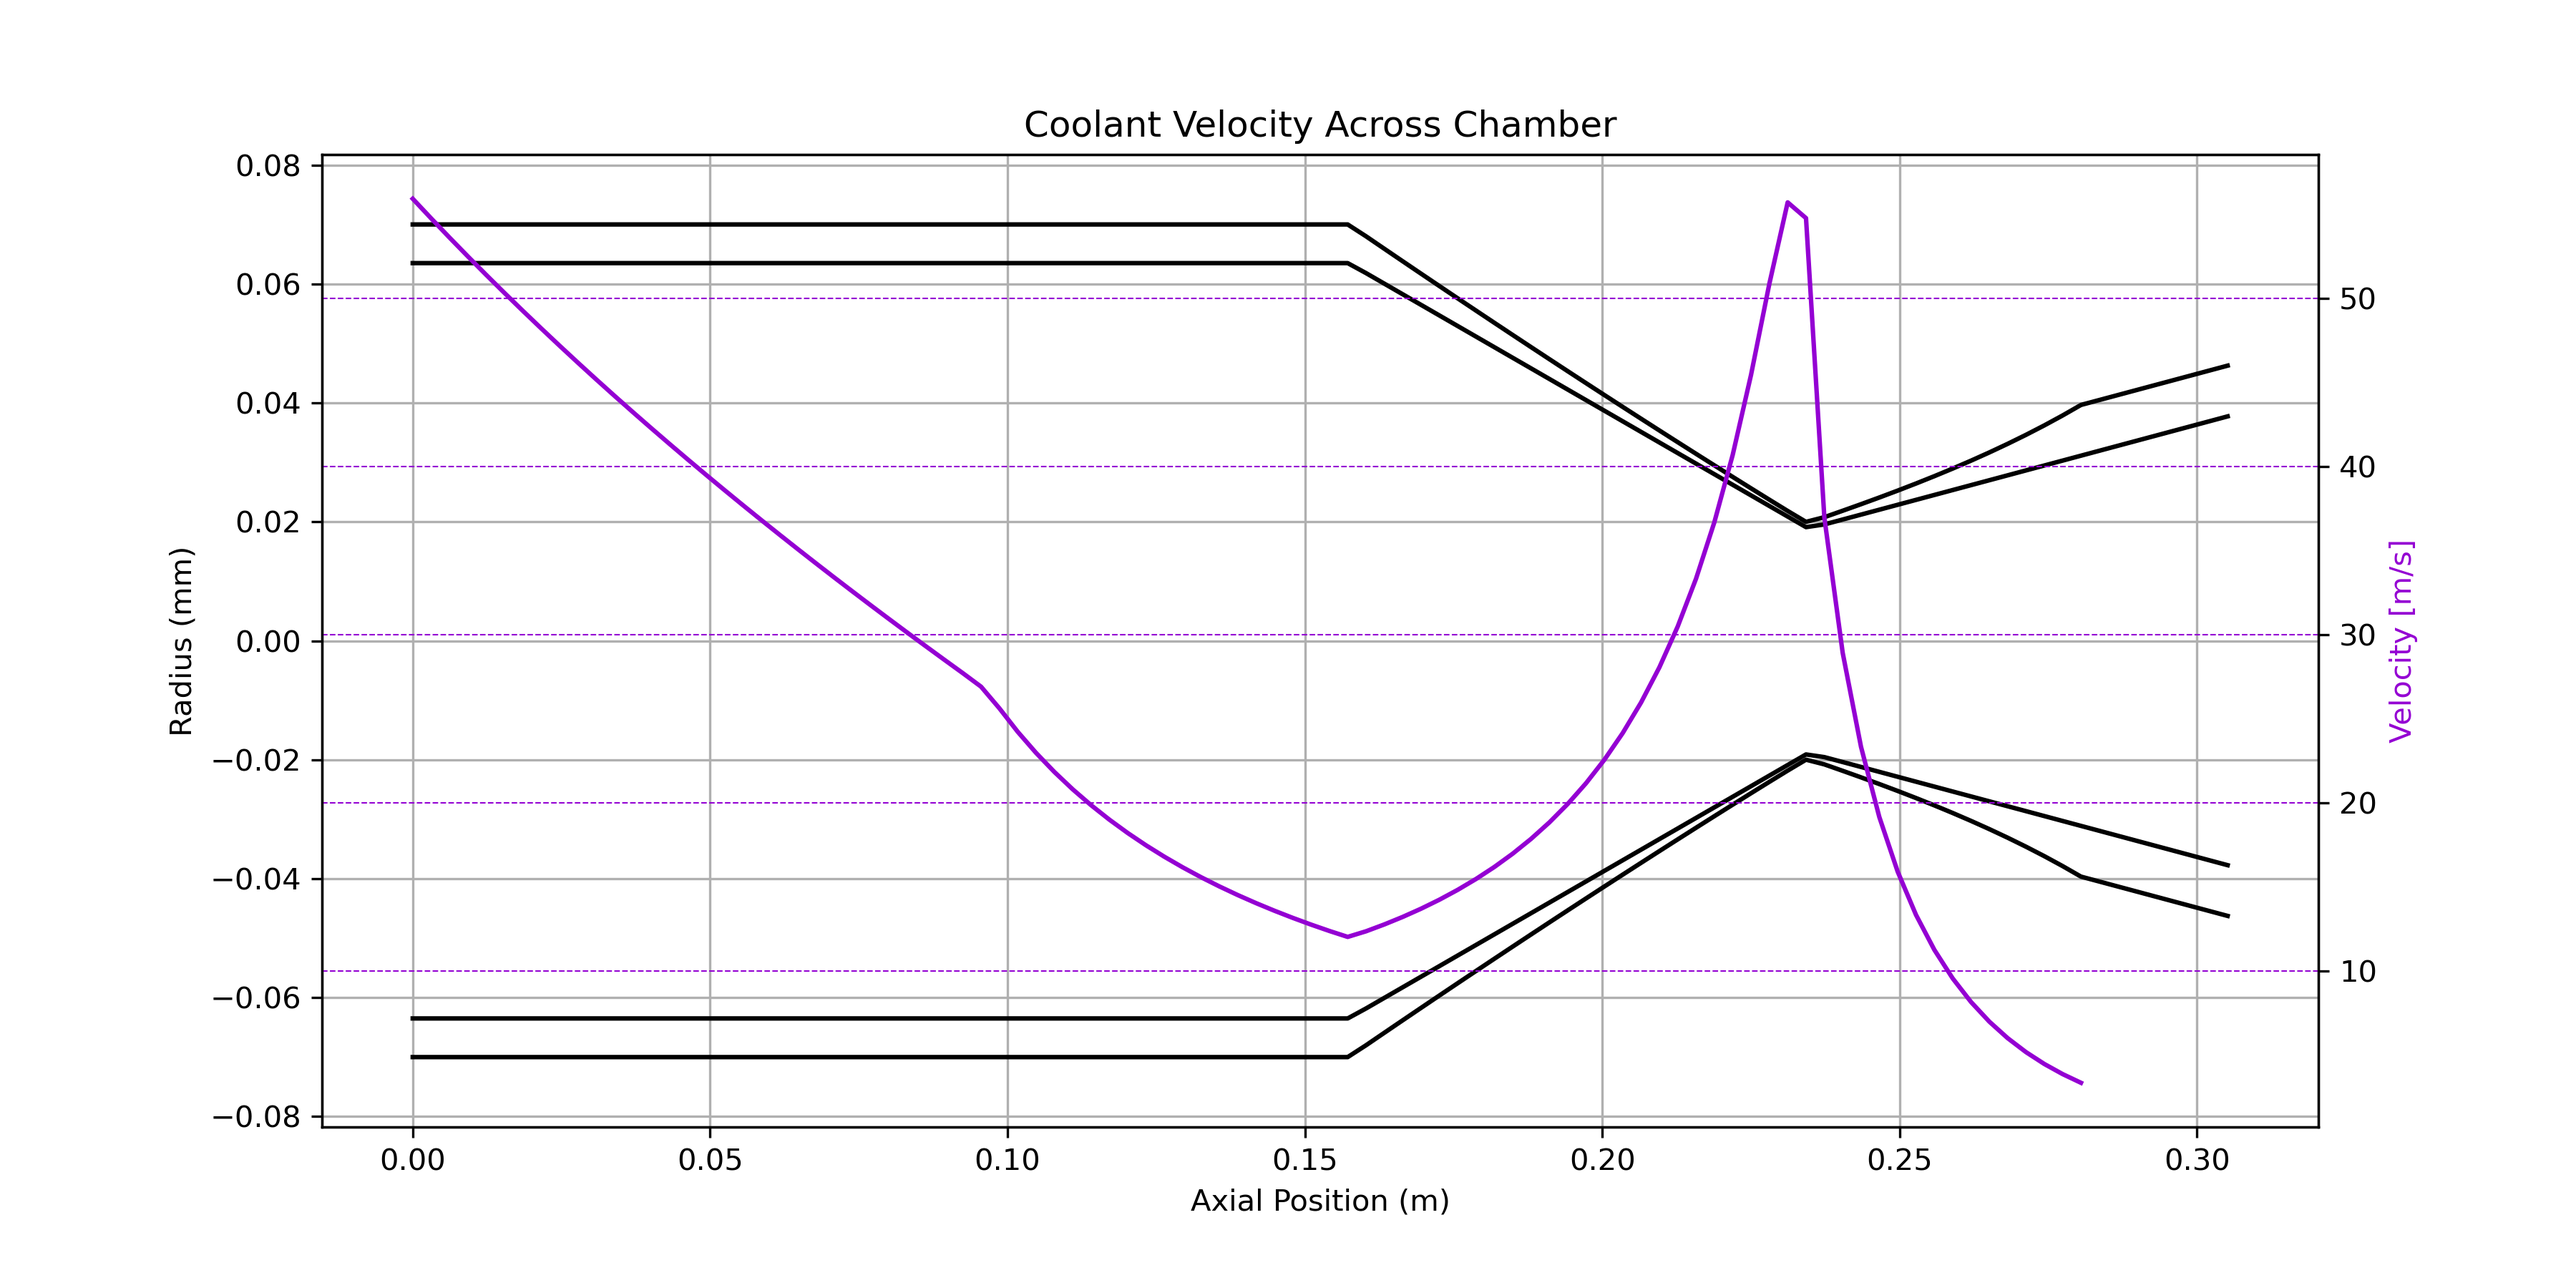
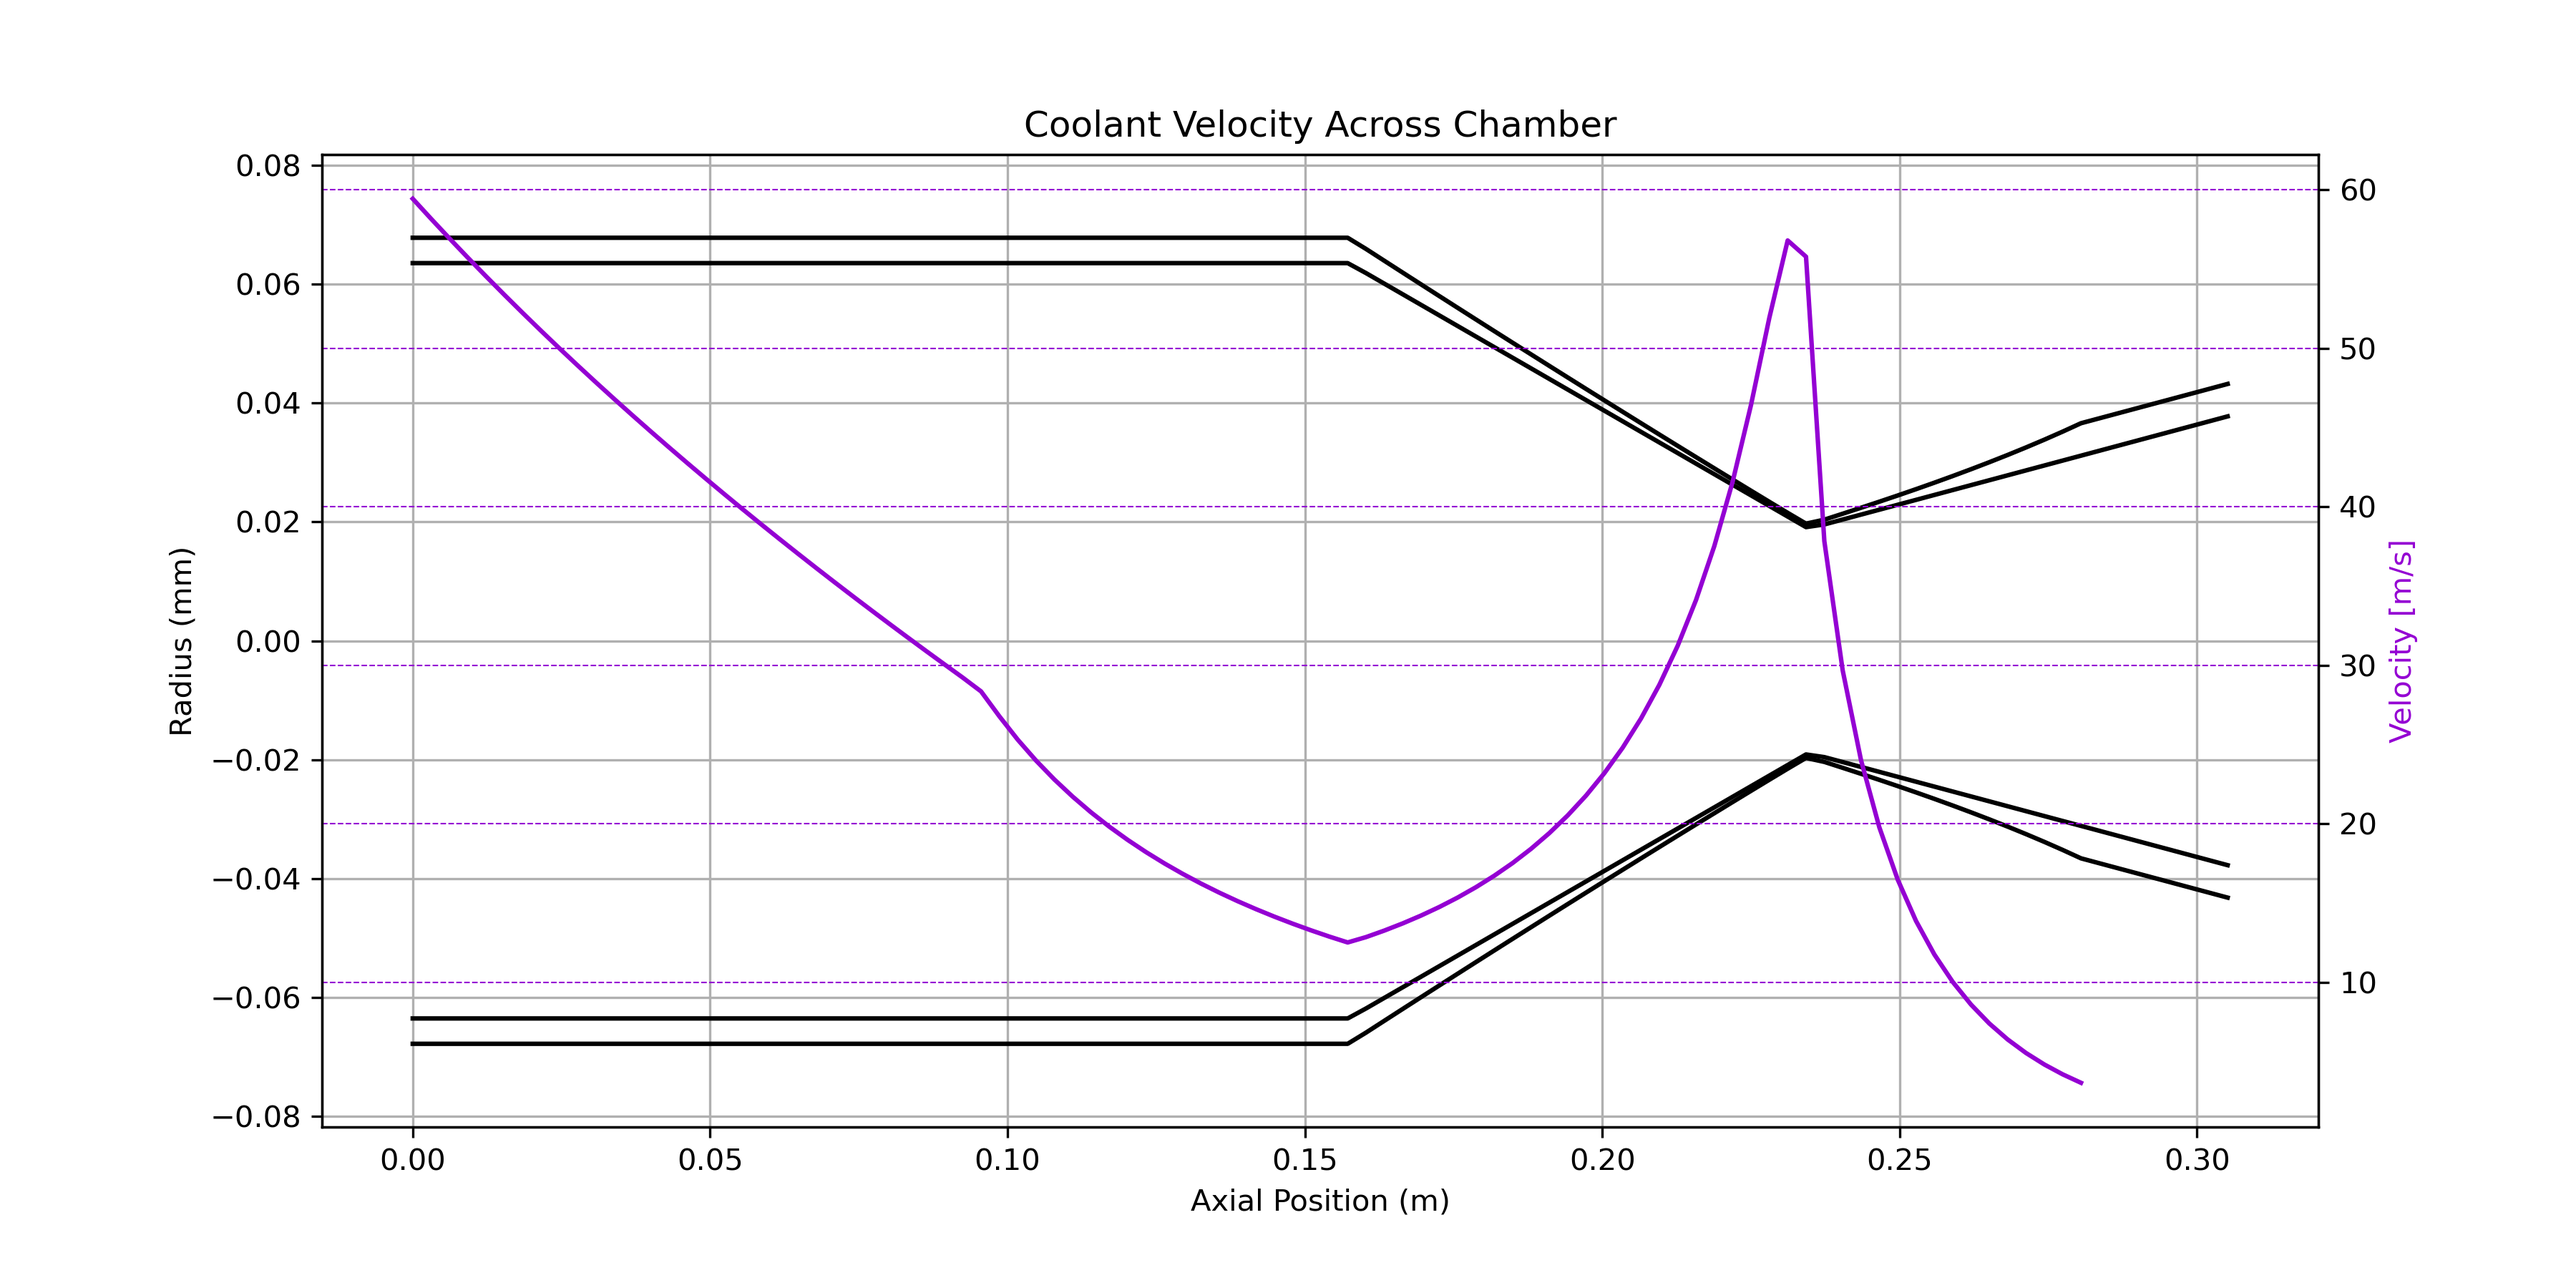
Work on Script Version

diff --git a/TheEngine/Regen Solver/solverscript.py b/TheEngine/Regen Solver/solverscript.py
@@ -6,11 +6,11 @@ import sys
 ''' Define Parameters '''
 def_P0 = 2.758e+6 # [Pa] - first chamber (stagnation) pressure guess 
 def_Ti = 300      # [K] - first chamber inlet temperature guess
-def_P_ci = 5.5e+6 # [Pa] - coolant inlet pressure
+def_P_ci = 4.5e+6 # [Pa] - coolant inlet pressure
 def_X_ci = 0.4 # [-] - coolant inlet quality
 def_x_off = 0.024 # [m] - cooling jacket offset
-def_T_hw = 1200 # [K] - target hot wall temperature (should be below 1373 K)
-def_T_cw = 600 # [K] - target cold wall temperature (should be below 623 K)
+def_T_hw = 1000 # [K] - target hot wall temperature (should be below 1373 K)
+def_T_cw = 530 # [K] - target cold wall temperature (should be below 623 K)
 def_N_channels = 16 # [-] - number of cooling channels
 def_t_rib = 0.005 # [m] thickness of ribs 
 def_k_wall = 30 # [W/mK] - thermal conductivity of wall
@@ -56,7 +56,34 @@ sol.plotCoolantDensity()
 '''
 
 '''Run Special Plots '''
-#iterate over coolant quality from 0 to 0.5 in steps of 0.1
+N_range = 6
+def_ID = "Geometry with varying t_rib:"
+def_t_rib = 0.001
+for i in range(N_range):
+    def_t_rib = 0.001 + 0.001*i
+    sol.defineParameters(def_P0, 
+                         def_Ti, 
+                         def_P_ci, 
+                         def_X_ci, 
+                         def_x_off, 
+                         def_T_hw, 
+                         def_T_cw, 
+                         def_N_channels, 
+                         def_t_rib, 
+                         def_k_wall, 
+                         def_N)
+    T_coolant_f, P_coolant_f = sol.run()
+    #print("Coolant Final Temperature after Cycle ", i+2, ": ", T_coolant_f, " K", "\nCoolant Final Pressure after Cycle ", i+2, ": ", P_coolant_f, " Pa")
+    sol.plotCoolingJacketAxs(axs = sol.plotSubplot6(), ID = def_ID + " {}".format(def_t_rib))
+
+#sol.showSubplot("Velocity with varying X_ci")
+sol.saveSubplot("jacketvst_rib.png")
+sol.resetSubplot()
+
+
+
+
+sys.exit()
 P_drop = list()
 X_ci = list()
 
@@ -98,7 +125,7 @@ plt.legend()
 plt.savefig("solverplots/analysis/pressuredropvsX_ci.png")
 
 
-sys.exit()
+
 #iterate over coolant quality from 0 to 0.5 in steps of 0.1
 
 N_range = 10

diff --git a/TheEngine/Regen Solver/modules/solver.py b/TheEngine/Regen Solver/modules/solver.py
@@ -1523,6 +1523,19 @@ def plotSubplot(N):
     return axes[subplotcounter - 1]
     # plot 
 
+def plotSubplot6():
+    global subplotfig, axes, subplotcounter
+    if subplotfig is None:
+        subplotfig, axes = plt.subplots(3, 2, figsize = (18, 6 * 3))
+    
+    subplotcounter += 1
+    if subplotcounter < 3:
+        return axes[0, subplotcounter - 1]
+    elif subplotcounter < 5:
+        return axes[1, subplotcounter - 3]
+    else:
+        return axes[2, subplotcounter - 5]
+
 def showSubplot(title = None):
     if title is not None:
         subplotfig.suptitle(title)
